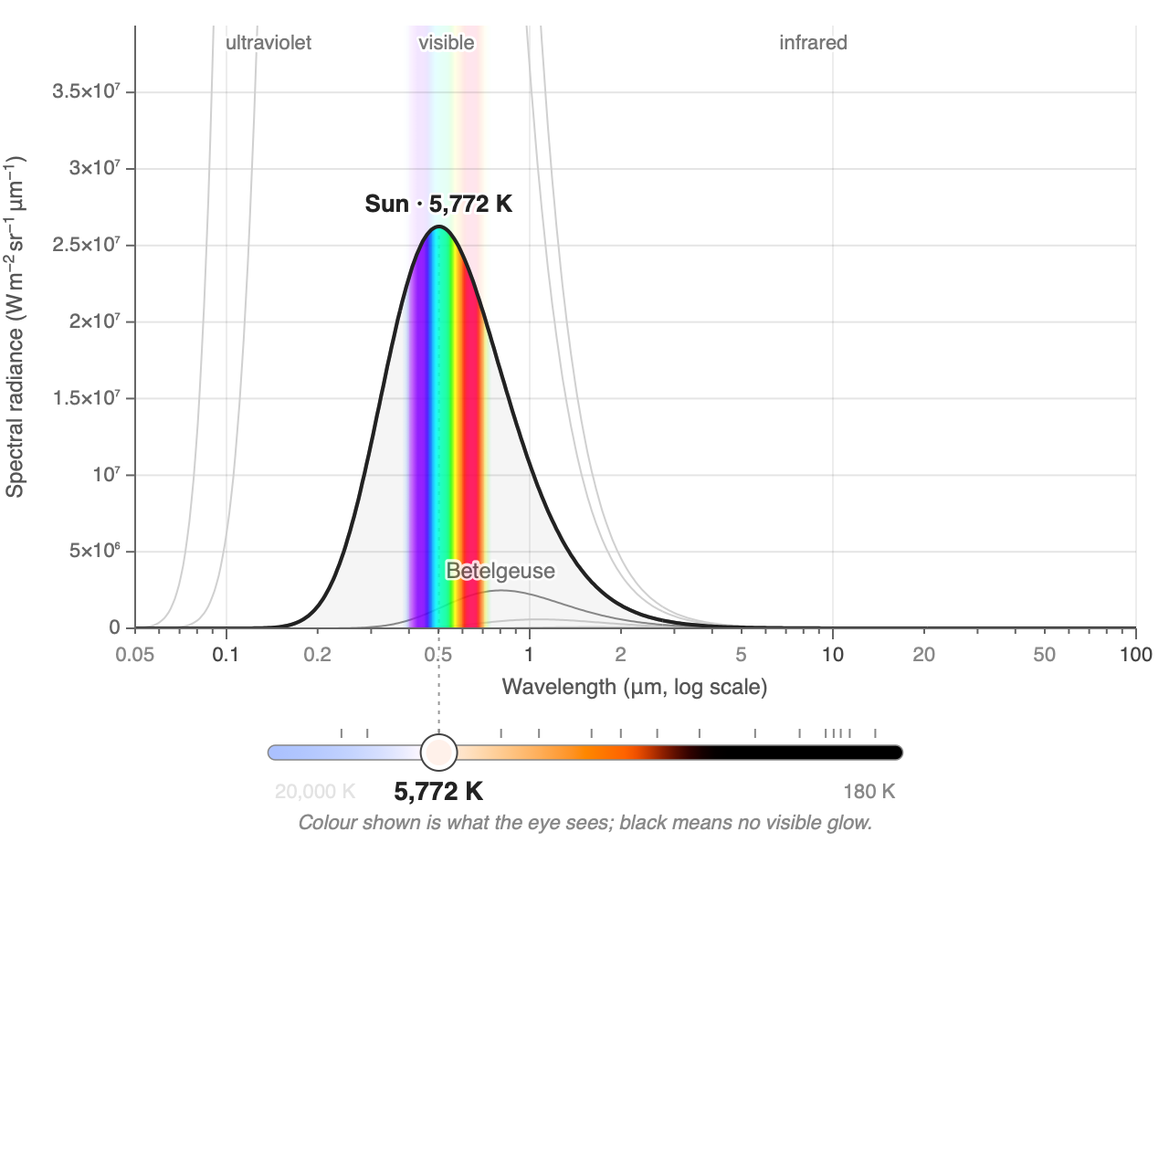
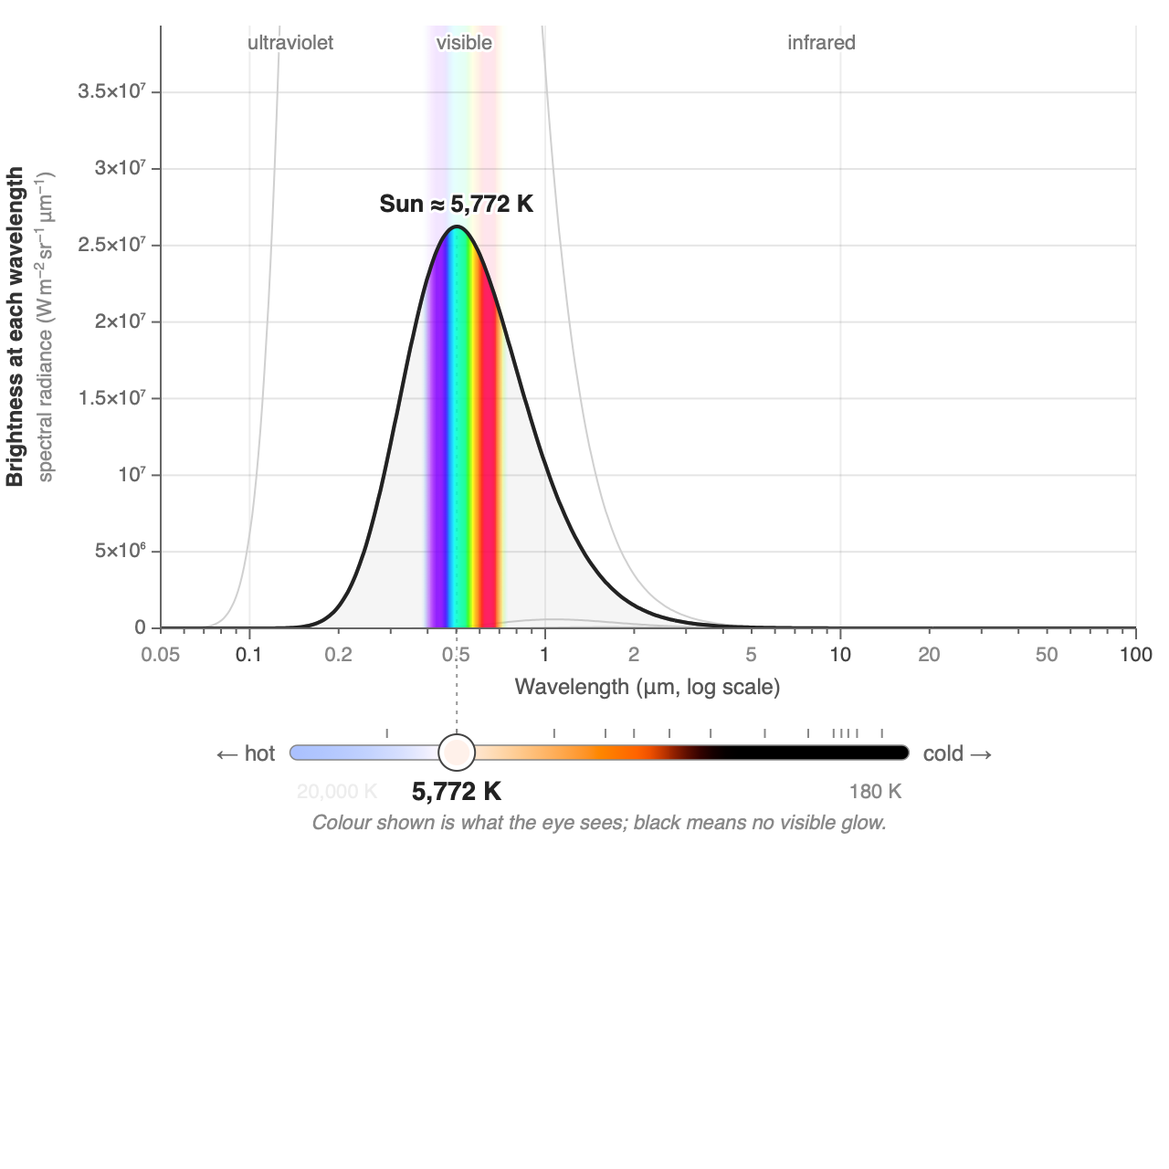
Plain words on the vertical axis, hot and cold on the slider, fewer objects
The audience is a broad, non-quantitative course. The vertical axis now
leads with "Brightness at each wavelength" in bold (brightness is the
everyday word for what radiance is, and "at each wavelength" is what
"spectral" means), with "spectral radiance" and its units beneath in
smaller, lighter text. The page introduces the term once and then says
brightness.

The slider says which way is hot: "← hot" and "cold →" at the ends of
its track, since it runs backwards from the usual.

Objects: Ice, Boiling water (was Kettle) and Oven carry their Celsius
temperature in the name; Betelgeuse and Rigel are commented out. With
longer names the label overlap fade needed a wider margin, and the band
labels no longer leave a near-invisible ghost at phone width.

Keys: left and right only, plus Home and End. Up, down, Page Up and
Page Down are gone; an object's exact temperature is what its button is
for.

diff --git a/src/blackbody-radiation/widget.js b/src/blackbody-radiation/widget.js
@@ -1,5 +1,6 @@
 // Black-body radiation — Planck's law as one curve of spectral radiance against wavelength,
-// driven by a temperature slider that runs from a blue supergiant to the surface of Mars.
+// driven by a temperature slider that runs from 20,000 K, twice as hot as Sirius, down to
+// 180 K, colder than the surface of Mars.
 //
 // The wavelength axis is fixed and logarithmic, and the slider lies along it. Wien's law puts
 // the peak at λ = b/T, so on a log axis the peak's position is linear in log T: a slider that
@@ -158,20 +159,20 @@ export function blackbodyCss(T) {
 export const OBJECTS = [
   {name: "Mars", T: 210},
   {name: "Earth from space", T: 255},
-  {name: "Ice", T: 273},
+  {name: "Ice (0 °C)", T: 273},
   {name: "Earth's surface", T: 288, emphasis: true},
   {name: "Human body", T: 306},
-  {name: "Kettle", T: 373},
-  {name: "Oven", T: 523},
+  {name: "Boiling water (100 °C)", T: 373},
+  {name: "Oven (250 °C)", T: 523},
   {name: "First red glow", T: 798},
   {name: "Cigarette", T: 1100},
   {name: "Lava", T: 1450},
   {name: "Molten iron", T: 1811},
   {name: "Light bulb", T: 2700},
-  {name: "Betelgeuse", T: 3600},
+  // {name: "Betelgeuse", T: 3600}, // red supergiant; dropped to keep the list to the familiar
   {name: "Sun", T: 5772, emphasis: true},
   {name: "Sirius", T: 9940},
-  {name: "Rigel", T: 12100},
+  // {name: "Rigel", T: 12100},    // blue supergiant; likewise
 ];
 
 const T_MIN = 180, T_MAX = 20000;
@@ -220,7 +221,7 @@ export function createBlackbodyRadiationWidget({temperature = 5772, scale = "log
     w = newW;
     const t = clamp((w - MIN_WIDTH) / (FIGURE_WIDTH - MIN_WIDTH), 0, 1);
     const lerp = (a, b) => Math.round(a + (b - a) * t);
-    plotL = lerp(62, 74); // the rotated radiance title, then tick labels as wide as "3.5×10⁷"
+    plotL = lerp(76, 88); // the two-line rotated title, then tick labels as wide as "3.5×10⁷"
     plotR = w - lerp(12, 18);
     plotW = plotR - plotL;
     tickFont = lerp(9, 11);
@@ -355,8 +356,7 @@ export function createBlackbodyRadiationWidget({temperature = 5772, scale = "log
   hint.style.cssText = "padding:8px 0 0;color:#888;font-size:14px;";
   const HINT_IDLE =
     "Drag the slider or the peak itself, pick an object (its button, or its label on a curve), " +
-    "or type a temperature. With the figure focused, ← and → move the peak by 1% (10% with " +
-    "Shift), ↑ and ↓ make it hotter or cooler; Page Up and Page Down step between the objects.";
+    "or type a temperature. With the figure focused, ← and → move the peak by 1% (10% with Shift).";
   const HINT_TOUR =
     "Touring the objects — drag the slider, pick an object or press a key to take over; " +
     "Play tour starts it again.";
@@ -558,7 +558,7 @@ export function createBlackbodyRadiationWidget({temperature = 5772, scale = "log
     // "infrared" makes room. All by smooth functions of the room available, so the labels
     // cross-fade during a switch of scale.
     const bandLabel = (text, x, anchor, opacity) => {
-      if (opacity < 0.01) return;
+      if (opacity < 0.05) return; // a ghost of a label is worse than none
       const t = svgEl("text", {
         x: x.toFixed(1), y: plotT + 13, "text-anchor": anchor, "font-size": tickFont, fill: "#777",
         opacity: opacity.toFixed(3), ...halo,
@@ -568,7 +568,7 @@ export function createBlackbodyRadiationWidget({temperature = 5772, scale = "log
     const textW = text => 2 * labelHalfWidth(text, tickFont);
     const inBand = smoothstep(0.45, 0.6, (visR - visL) / textW("visible"));
     const irFrom = visR + (1 - inBand) * (textW("← visible") + 10);
-    bandLabel("ultraviolet", (plotL + visL) / 2, "middle", smoothstep(1, 1.3, (visL - plotL) / textW("ultraviolet")));
+    bandLabel("ultraviolet", (plotL + visL) / 2, "middle", smoothstep(0.85, 1.05, (visL - plotL) / textW("ultraviolet")));
     bandLabel("visible", (visL + visR) / 2, "middle", inBand);
     bandLabel("← visible", visR + 4, "start", 1 - inBand);
     bandLabel("infrared", (irFrom + plotR) / 2, "middle", smoothstep(1, 1.3, (plotR - irFrom) / textW("infrared")));
@@ -585,22 +585,29 @@ export function createBlackbodyRadiationWidget({temperature = 5772, scale = "log
       "text-anchor": "middle", "font-size": labelFont + 1, "font-weight": "bold", fill: "#222", ...halo,
     }, svg);
 
-    // Axis titles, centred on their axes; the radiance title reads bottom to top.
+    // Axis titles, centred on their axes; the vertical one reads bottom to top, in two lines.
+    // The first is for the audience this was built for, a broad non-quantitative course:
+    // "brightness" is the everyday word for what radiance is, and "at each wavelength" is
+    // what "spectral" means. The proper name and its units follow in smaller, lighter text
+    // for anyone who wants them.
     const yMid = plotT + plotH / 2;
-    const yTitle = svgEl("text", {
-      x: titleFont, y: yMid, transform: `rotate(-90 ${titleFont} ${yMid})`, "text-anchor": "middle",
-      "font-size": titleFont, fill: "#555",
+    const rotated = (x, attrs) => svgEl("text", {
+      x, y: yMid, transform: `rotate(-90 ${x} ${yMid})`, "text-anchor": "middle", ...attrs,
     }, svg);
+    rotated(titleFont, {"font-size": titleFont, "font-weight": "bold", fill: "#333"})
+      .textContent = "Brightness at each wavelength";
+    const unitFont = titleFont - 1;
+    const yUnits = rotated(titleFont + unitFont + 5, {"font-size": unitFont, fill: "#888"});
     // The exponents are set as real superscripts with a true minus sign (U+2212). Unicode's
     // ready-made superscript minus, U+207B, would be less work, but Helvetica and its kin
     // draw it as a short hyphen. Each run is a tspan; a raised one is smaller and shifted up
     // by `rise`, and the run after it shifts back down by the same amount.
-    const rise = 0.36 * titleFont;
+    const rise = 0.36 * unitFont;
     // Units are separated by a thin space (U+2009), the other SI-sanctioned form, not a dot.
-    const runs = ["Spectral radiance (W\u2009m", "^−2", "\u2009sr", "^−1", "\u2009μm", "^−1", ")"];
+    const runs = ["spectral radiance (W\u2009m", "^−2", "\u2009sr", "^−1", "\u2009μm", "^−1", ")"];
     runs.forEach((run, i) => {
       const raised = run.startsWith("^"), afterRaised = i > 0 && runs[i - 1].startsWith("^");
-      const t = svgEl("tspan", raised ? {dy: -rise, "font-size": 0.72 * titleFont} : afterRaised ? {dy: rise} : {}, yTitle);
+      const t = svgEl("tspan", raised ? {dy: -rise, "font-size": 0.72 * unitFont} : afterRaised ? {dy: rise} : {}, yUnits);
       t.textContent = raised ? run.slice(1) : run;
     });
     const xTitle = svgEl("text", {
@@ -618,6 +625,16 @@ export function createBlackbodyRadiationWidget({temperature = 5772, scale = "log
       const px = sliderX(o.T);
       if (px > trackR + 0.5) continue;
       svgEl("line", {x1: px, x2: px, y1: trackY - 13, y2: trackY - 8, stroke: "#888", "stroke-width": 1}, svg);
+    }
+    // Which way is hot: the slider runs backwards from what a temperature slider usually
+    // does, because it is laid on the wavelength axis. Said at the ends of the track, level
+    // with it, so the words travel with the track when the scale changes.
+    for (const [text, x, anchor] of [["← hot", trackL - trackH / 2 - 8, "end"], ["cold →", trackR + trackH / 2 + 8, "start"]]) {
+      const t = svgEl("text", {
+        x: x.toFixed(1), y: trackY, "dominant-baseline": "central", "text-anchor": anchor,
+        "font-size": tickFont + 1, fill: "#666",
+      }, svg);
+      t.textContent = text;
     }
     endLabels = [[trackL, "start", T_MAX], [trackR, "end", roundK(coldest)]].map(([x, anchor, T]) => {
       const t = svgEl("text", {x, y: trackY + handleR + 16, "text-anchor": anchor, "font-size": tickFont, fill: "#888"}, svg);
@@ -772,7 +789,8 @@ export function createBlackbodyRadiationWidget({temperature = 5772, scale = "log
         // Closest-in-temperature labels are placed first; a later one that would overprint
         // an earlier one fades out in proportion to how much they overlap vertically.
         for (const q of placed) {
-          if (Math.abs(q.x - x) < q.half + half + 4) opacity *= smoothstep(9, 15, Math.abs(q.y - y));
+          // Gone while the two lines of text would touch, back once there is clear air between.
+          if (Math.abs(q.x - x) < q.half + half + 4) opacity *= smoothstep(labelFont + 1, labelFont + 7, Math.abs(q.y - y));
         }
         if (opacity > 0.01) placed.push({x, y, half});
         if (opacity > 0.4) labelHits.push({i, x, y, half}); // legible enough to be a target
@@ -853,7 +871,7 @@ export function createBlackbodyRadiationWidget({temperature = 5772, scale = "log
     statusBody.textContent = text;
     svg.setAttribute("aria-label",
       `Black-body spectrum at ${formatK(T)}${match ? `, approximately ${match.name}` : ""}. ${text} ` +
-      "Left and right arrows move the peak, up and down arrows change the temperature; Page Up and Page Down step between reference objects.");
+      "Left and right arrows move the peak: left is hotter, right is cooler.");
 
     chips.forEach((b, i) => {
       const on = OBJECTS[i].T === T;
@@ -1004,18 +1022,17 @@ export function createBlackbodyRadiationWidget({temperature = 5772, scale = "log
   svg.addEventListener("keydown", e => {
     const factor = e.shiftKey ? 1.1 : 1.01;
     let T = target;
-    // ← and → move the handle (and the peak) the way they point, so → is cooler; ↑ and ↓ are
-    // hotter and cooler.
-    if (e.key === "ArrowLeft" || e.key === "ArrowUp") T = roundK(target * factor, target, 1);
-    else if (e.key === "ArrowRight" || e.key === "ArrowDown") T = roundK(target / factor, target, -1);
-    else if (e.key === "PageDown") T = [...OBJECTS].reverse().find(o => o.T < target)?.T ?? T_MIN;
-    else if (e.key === "PageUp") T = OBJECTS.find(o => o.T > target)?.T ?? T_MAX;
+    // ← and → move the handle (and the peak) the way they point, so → is cooler. Those two
+    // are the whole keyboard interface for a horizontal slider, plus Home and End for its
+    // ends; an object's exact temperature is what its button is for.
+    if (e.key === "ArrowLeft") T = roundK(target * factor, target, 1);
+    else if (e.key === "ArrowRight") T = roundK(target / factor, target, -1);
     else if (e.key === "Home") T = T_MAX; // the left end of the track
     else if (e.key === "End") T = T_MIN;
     else return;
     stopTour();
     e.preventDefault();
-    setTarget(T, e.key.startsWith("Page") || e.key === "Home" || e.key === "End" ? "tween" : "follow");
+    setTarget(T, e.key === "Home" || e.key === "End" ? "tween" : "follow");
   });
 
   svg.addEventListener("focus", () => { focusRing.style.display = ""; });

diff --git a/src/blackbody-radiation/index.md b/src/blackbody-radiation/index.md
@@ -2,7 +2,7 @@
 
 Everything warmer than absolute zero glows. How brightly, and in what colours, depends on its temperature alone: that is Planck's law, and it is where the greenhouse effect starts. The Sun, at 5772 K, glows mostly in visible light. The Earth, at 288 K, glows too, but entirely in the infrared, at wavelengths twenty times longer. The atmosphere treats those two kinds of light very differently.
 
-Left alone, the figure tours its objects from the coldest to the hottest and round again. Change the temperature yourself and the tour stops; *Play tour* starts it again. Switching between *Log* and *Linear* does not interrupt it, so you can watch the same tour on either axis. Drag the slider or the peak itself, pick an object to jump to its exact temperature, or type a temperature of your own into the box. The slider lies along the wavelength axis with its handle directly under the peak of the curve, so moving it left, toward the hot end, carries the peak toward shorter wavelengths, out of the infrared, through the visible band and into the ultraviolet. The radiance axis rescales as you go, because it has to: the peak at the hot end of the slider is seventeen billion times higher than at the cold end.
+Left alone, the figure tours its objects from the coldest to the hottest and round again. Change the temperature yourself and the tour stops; *Play tour* starts it again. Switching between *Log* and *Linear* does not interrupt it, so you can watch the same tour on either axis. Drag the slider or the peak itself, pick an object to jump to its exact temperature, or type a temperature of your own into the box. The slider lies along the wavelength axis with its handle directly under the peak of the curve, so moving it left, toward the hot end, carries the peak toward shorter wavelengths, out of the infrared, through the visible band and into the ultraviolet. The brightness axis rescales as you go, because it has to: the peak at the hot end of the slider is seventeen billion times higher than at the cold end.
 
 ```js
 import {createBlackbodyRadiationWidget} from "./widget.js";
@@ -14,7 +14,7 @@ const blackbody = view(createBlackbodyRadiationWidget());
 
 ## What to look for
 
-**The slider is Wien's law.** Planck's law gives the spectral radiance of a perfect absorber and emitter, a *black body*, at wavelength ${tex`\lambda`} and temperature ${tex`T`}:
+**The slider is Wien's law.** The curve shows how brightly something glows at each wavelength, which physicists call its *spectral radiance*. Planck's law gives it for a perfect absorber and emitter, a *black body*, at wavelength ${tex`\lambda`} and temperature ${tex`T`}:
 
 ```tex
 B_\lambda(\lambda, T) = \frac{2hc^2}{\lambda^5}\,\frac{1}{e^{hc/\lambda k_\mathrm{B} T} - 1}
@@ -24,9 +24,9 @@ Its peak sits at ${tex`\lambda_\text{peak} = b/T`} with ${tex`b = 2898`} μm K
 
 **The curve never changes shape.** On the logarithmic axis every curve in the figure, black or gray, is the same shape: temperature slides it sideways and stretches it upward, and does nothing else. The coloured band marks visible light, 0.38 to 0.75 μm. At the Sun's temperature it sits under the peak. With the slider at a light-bulb filament the peak has moved well into the infrared and only the curve's short-wavelength foot is left in the band, which is why a filament wastes more than 90% of its power as heat. Below about 800 K nothing is left in the band at all.
 
-**The radiance axis is a fifth power.** The height of the peak grows as ${tex`T^5`}, and the total power radiated as ${tex`T^4`} (the Stefan–Boltzmann law, ${tex`\sigma T^4`} per square metre of surface). The Sun's surface is 20 times hotter than the Earth's, so its peak is 3.2 million times higher and each square metre radiates 160,000 times the power. This is why the gray curves behave as they do: a slightly cooler object is already much lower, a much cooler one is pressed flat against the axis, and a hotter one leaves through the top of the frame almost at once. A hotter body outshines a cooler one at *every* wavelength, not just near its own peak: the curves never cross.
+**The brightness axis is a fifth power.** The height of the peak grows as ${tex`T^5`}, and the total power radiated as ${tex`T^4`} (the Stefan–Boltzmann law, ${tex`\sigma T^4`} per square metre of surface). The Sun's surface is 20 times hotter than the Earth's, so its peak is 3.2 million times higher and each square metre radiates 160,000 times the power. This is why the gray curves behave as they do: a slightly cooler object is already much lower, a much cooler one is pressed flat against the axis, and a hotter one leaves through the top of the frame almost at once. A hotter body outshines a cooler one at *every* wavelength, not just near its own peak: the curves never cross.
 
-**Try the linear axis.** The *Linear* button redraws the same curves against a plain wavelength axis from 0 to 20 μm. At the Earth's end of the slider this is the picture in the textbooks: a steep rise, a peak at 10 μm in the middle of the axis, and a long tail. It is also the honest one for judging power by eye, since on a linear axis the area under the curve *is* the power. Then click *Sun*. The whole solar spectrum becomes a spike against the left edge, its peak a fortieth of the way along, and the hot third of the slider is squeezed into a few pixels with it. No linear axis can show sunlight and earthlight together, which is the reason the default here is logarithmic, and it is a fair picture of how far apart the two are. One more thing changes on this axis. Below 290 K the peak is past the middle of the axis and the curve is increasingly cut off by the right edge, which makes it a poor thing to size the frame by, so from there down the radiance axis stops following and the curves simply sink, as the fifth power says they should.
+**Try the linear axis.** The *Linear* button redraws the same curves against a plain wavelength axis from 0 to 20 μm. At the Earth's end of the slider this is the picture in the textbooks: a steep rise, a peak at 10 μm in the middle of the axis, and a long tail. It is also the honest one for judging power by eye, since on a linear axis the area under the curve *is* the power. Then click *Sun*. The whole solar spectrum becomes a spike against the left edge, its peak a fortieth of the way along, and the hot third of the slider is squeezed into a few pixels with it. No linear axis can show sunlight and earthlight together, which is the reason the default here is logarithmic, and it is a fair picture of how far apart the two are. One more thing changes on this axis. Below 290 K the peak is past the middle of the axis and the curve is increasingly cut off by the right edge, which makes it a poor thing to size the frame by, so from there down the brightness axis stops following and the curves simply sink, as the fifth power says they should.
 
 **Sunlight and earthlight barely overlap.** 98% of the power of a 5772 K black body lies between 0.25 and 4.0 μm. 98% of a 288 K one lies between 5.0 and 80 μm. Click *Sun* and then *Earth's surface* and watch the curve cross the axis from one side of 4 μm to the other. Gases such as water vapour and CO₂ are largely transparent across the first range and absorb strongly in parts of the second, so energy arrives more easily than it leaves. The two Earth entries are the result: seen from space the Earth radiates like a 255 K body, 240 W per m², which balances the sunlight it absorbs, while the surface underneath is at 288 K and radiates 390 W per m².
 
@@ -36,7 +36,7 @@ Its peak sits at ${tex`\lambda_\text{peak} = b/T`} with ${tex`b = 2898`} μm K
 
 The constants are the exact SI values of ${tex`h`}, ${tex`c`} and ${tex`k_\mathrm{B}`}, and radiance is per micrometre of wavelength, which keeps the numbers readable at Earth temperatures (about 8 W m<sup>−2</sup> sr<sup>−1</sup> μm<sup>−1</sup> at the 288 K peak). The implementation was checked three ways: the numerical peak against Wien's constant, the numerical integral over wavelength against ${tex`\sigma T^4/\pi`} (they agree to six figures from 210 K to 20,000 K), and the percentile points against the table in Wikipedia's [Planck's law](https://en.wikipedia.org/wiki/Planck%27s_law#Percentiles) article. The ultraviolet, visible and infrared shares come from the series for the integral of Planck's law up to a given wavelength, with the visible band taken as 380 to 750 nm.
 
-The wavelength axis is fixed: 0.05 to 100 μm on the logarithmic scale, 0 to 20 μm on the linear one, and switching between them morphs one scale into the other so that each curve can be followed across. The radiance axis runs to 1.5 times the current peak, except on the linear scale below 290 K, where it holds at 1.5 times the peak of the 290 K curve, the last one whose peak is in the left half of the axis. Its tick marks come from the 1–2–5 sequence and fade in and out according to how far apart they are on screen, so the axis rescales continuously instead of jumping. A reference curve is labelled while its peak is inside the frame and tall enough to read, and unlabelled otherwise. The two exceptions are the Sun and the Earth's surface, the pair this whole site is about: their curves are drawn thicker and darker, and when either one's peak is out through the top of the frame its name moves down onto the side of the curve instead of disappearing. Every label is also a button: click *Sun* on its curve and the black curve goes there, just as it does from the buttons under the figure. One caution about the logarithmic view: equal widths on a log axis are not equal ranges of wavelength, so there the area under the curve is not proportional to power. The percentages under the figure are computed from the integral, not read off the picture.
+The wavelength axis is fixed: 0.05 to 100 μm on the logarithmic scale, 0 to 20 μm on the linear one, and switching between them morphs one scale into the other so that each curve can be followed across. The brightness axis runs to 1.5 times the current peak, except on the linear scale below 290 K, where it holds at 1.5 times the peak of the 290 K curve, the last one whose peak is in the left half of the axis. Its tick marks come from the 1–2–5 sequence and fade in and out according to how far apart they are on screen, so the axis rescales continuously instead of jumping. A reference curve is labelled while its peak is inside the frame and tall enough to read, and unlabelled otherwise. The two exceptions are the Sun and the Earth's surface, the pair this whole site is about: their curves are drawn thicker and darker, and when either one's peak is out through the top of the frame its name moves down onto the side of the curve instead of disappearing. Every label is also a button: click *Sun* on its curve and the black curve goes there, just as it does from the buttons under the figure. One caution about the logarithmic view: equal widths on a log axis are not equal ranges of wavelength, so there the area under the curve is not proportional to power. The percentages under the figure are computed from the integral, not read off the picture.
 
 **Colour.** The swatch, the slider track and the dots on the buttons show the colour of a black body at that temperature: Planck's law weighted by the CIE 1931 colour-matching functions (in the analytic fit of [Wyman, Sloan & Shirley, 2013](https://jcgt.org/published/0002/02/01/)), converted to sRGB. The results agree with Mitchell Charity's widely used [black-body colour table](http://www.vendian.org/mncharity/dir3/blackbody/) to within a few units per channel. Hue is physics; brightness is not. A screen cannot show the many orders of magnitude between a dull red glow and a filament, so the swatch simply fades to black below the [Draper point](https://en.wikipedia.org/wiki/Draper_point), 798 K, where a solid first becomes visible by its own light in a dark room. Note that the Sun comes out nearly white, not yellow, which is correct.
 
@@ -46,22 +46,20 @@ The wavelength axis is fixed: 0.05 to 100 μm on the logarithmic scale, 0 to 20 
 |---|---|---|
 | Mars | 210 K | Global mean surface temperature |
 | Earth from space | 255 K | Effective emission temperature: what balances the 240 W m<sup>−2</sup> of absorbed sunlight |
-| Ice | 273 K | Melting point of water, 0 °C |
+| Ice (0 °C) | 273 K | Melting point of water |
 | Earth's surface | 288 K | Global mean surface temperature, about 15 °C |
 | Human body | 306 K | Skin, about 33 °C, rather than the 37 °C core: skin is what radiates |
-| Kettle | 373 K | Boiling water, 100 °C |
-| Oven | 523 K | A hot kitchen oven, 250 °C |
+| Boiling water (100 °C) | 373 K | A kettle as it clicks off |
+| Oven (250 °C) | 523 K | A hot kitchen oven |
 | First red glow | 798 K | The Draper point |
 | Cigarette | 1100 K | The tip during a puff, roughly 800–900 °C; it smoulders cooler between puffs |
 | Lava | 1450 K | Basalt erupts at about 1100–1200 °C |
 | Molten iron | 1811 K | Melting point of iron, 1538 °C |
 | Light bulb | 2700 K | Tungsten filament of an incandescent bulb |
-| Betelgeuse | 3600 K | Red supergiant |
 | Sun | 5772 K | The IAU's nominal solar effective temperature |
 | Sirius | 9940 K | Sirius A, the brightest star in the night sky |
-| Rigel | 12,100 K | Blue supergiant |
 
-The stellar values are effective temperatures: the temperature of the black body that would radiate the same total power per unit area. They are rounded, and for a variable star like Betelgeuse they are only good to a couple of hundred kelvin.
+The two stellar values, for the Sun and Sirius, are effective temperatures: the temperature of the black body that would radiate the same total power per unit area. All the temperatures here are representative and rounded, which is why the figure pairs each object with its temperature by ≈ and not =.
 
 ## Embed this widget
 
